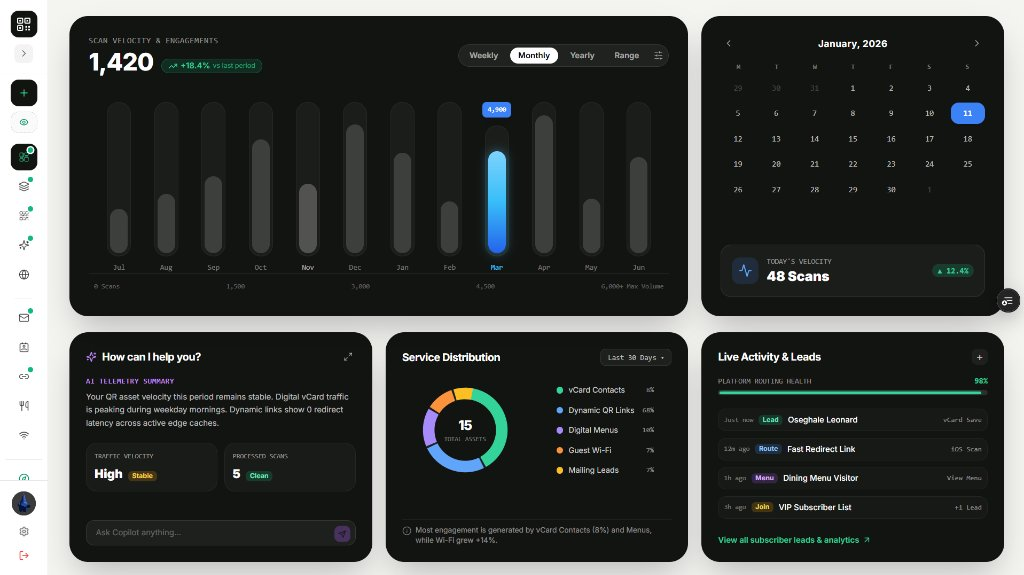
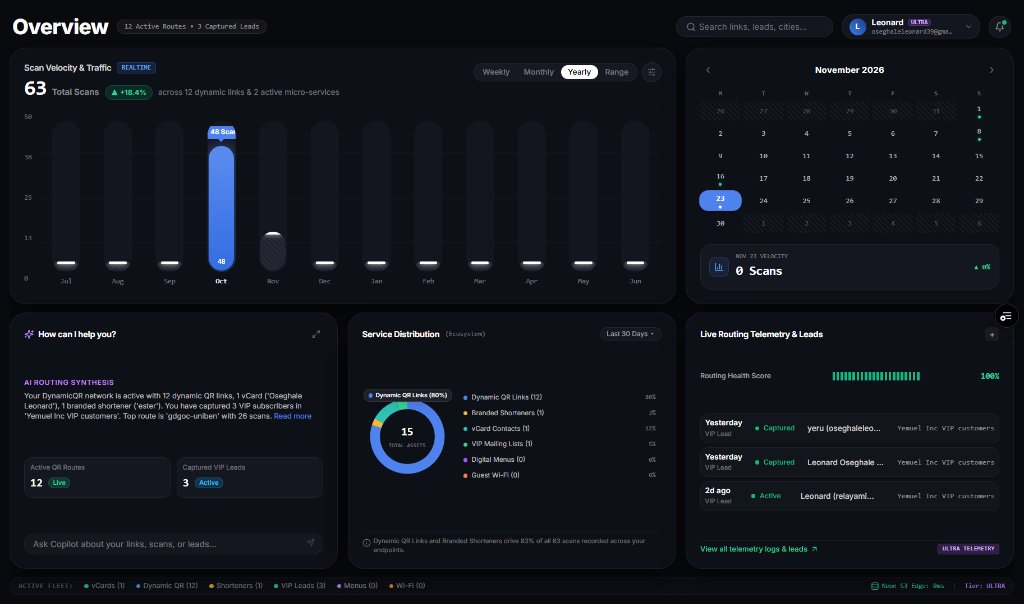
fix(ui): enlarge bottom headline with zero clipping, fix extreme left tab scroll, scale bento cards 1.5x taller, and update dashboard image to redesigned overview

diff --git a/components/AppleProductTour.tsx b/components/AppleProductTour.tsx
@@ -344,13 +344,13 @@ export default function AppleProductTour({ onOpenWorkspace }: Props) {
           </div>
 
           <h1
-            className="text-3xl sm:text-4xl md:text-[2.6rem] lg:text-[3.4rem] xl:text-[4.1rem] font-bold tracking-tight leading-[1.24] text-white flex flex-col items-center gap-2.5 sm:gap-4"
+            className="flex flex-col items-center gap-1.5 sm:gap-3 text-center"
             style={{ fontFamily: 'var(--font-display)' }}
           >
-            <span className="block whitespace-normal md:whitespace-nowrap pb-0.5">
+            <span className="block whitespace-normal md:whitespace-nowrap text-2xl sm:text-3xl md:text-[2.2rem] lg:text-[2.8rem] xl:text-[3.3rem] font-bold tracking-tight text-white/95 leading-tight">
               Consolidate All Your Micro-SaaS Apps
             </span>
-            <span className="block whitespace-normal md:whitespace-nowrap text-transparent bg-clip-text bg-gradient-to-r from-emerald-300 via-teal-200 to-emerald-400 pt-0.5">
+            <span className="inline-block whitespace-normal md:whitespace-nowrap text-3xl sm:text-5xl md:text-[3.4rem] lg:text-[4.4rem] xl:text-[5rem] font-extrabold tracking-tight text-transparent bg-clip-text bg-gradient-to-r from-emerald-300 via-teal-200 to-emerald-400 py-2 sm:py-3 px-2 leading-[1.2] overflow-visible">
               With Powerful DynamicQR
             </span>
           </h1>
@@ -859,7 +859,7 @@ export default function AppleProductTour({ onOpenWorkspace }: Props) {
 
       {/* 2. Apple-Style Perspective Showcase: Real World Industries */}
       <section id="industries" className="py-20 md:py-32 px-5 md:px-8 max-w-[1280px] mx-auto border-t border-white/10">
-        <div className="text-center max-w-3xl mx-auto space-y-4 mb-14">
+        <div className="text-center max-w-3xl mx-auto space-y-4 mb-8">
           <h2
             className="text-[2.2rem] sm:text-[3rem] font-bold tracking-tight leading-tight text-white"
             style={{ fontFamily: 'var(--font-display)' }}
@@ -869,9 +869,11 @@ export default function AppleProductTour({ onOpenWorkspace }: Props) {
           <p className="text-[15px] sm:text-[17px] text-white/60">
             Select an industry below to see how physical media stays active without reprints.
           </p>
+        </div>
 
-          {/* Industry Tab Selector: Strictly in ONE Single Line */}
-          <div className="flex flex-nowrap items-center justify-start sm:justify-center gap-2 pt-4 overflow-x-auto max-w-full pb-2 px-1">
+        {/* Industry Tab Selector: Wide container with smooth horizontal scroll and zero cut-off */}
+        <div className="w-full max-w-5xl mx-auto overflow-x-auto pb-4 pt-1 mb-10 px-4">
+          <div className="flex flex-nowrap items-center gap-2.5 w-max mx-auto px-1">
             {(Object.keys(INDUSTRIES) as IndustryTab[]).map((tabKey) => {
               const ind = INDUSTRIES[tabKey];
               const Icon = ind.icon;
@@ -879,12 +881,13 @@ export default function AppleProductTour({ onOpenWorkspace }: Props) {
               return (
                 <button
                   key={tabKey}
+                  type="button"
                   onClick={() => {
                     startTransition(() => {
                       setActiveTab(tabKey);
                     });
                   }}
-                  className={`whitespace-nowrap shrink-0 inline-flex items-center gap-2 px-3.5 sm:px-4 py-2 sm:py-2.5 rounded-xl text-[12.5px] sm:text-[13px] font-medium transition-all ${
+                  className={`whitespace-nowrap shrink-0 inline-flex items-center gap-2 px-4 py-2.5 rounded-xl text-[13px] font-medium transition-all cursor-pointer ${
                     isActive
                       ? 'bg-white text-[#11140F] font-semibold shadow-md'
                       : 'bg-white/5 border border-white/10 text-white/70 hover:bg-white/10 hover:text-white'
@@ -989,7 +992,7 @@ export default function AppleProductTour({ onOpenWorkspace }: Props) {
 
       {/* 2.5. Apple-Style Turnkey Micro-SaaS Ecosystem */}
       <section id="microsaas" className="py-20 md:py-32 px-5 md:px-8 max-w-[1280px] mx-auto border-t border-white/10">
-        <div className="text-center max-w-3xl mx-auto space-y-4 mb-14">
+        <div className="text-center max-w-3xl mx-auto space-y-4 mb-8">
           <div className="inline-flex items-center gap-2 px-3.5 py-1 rounded-full border border-emerald-500/30 bg-emerald-500/10 text-emerald-400 font-mono text-[11px] font-semibold tracking-wider uppercase shadow-[0_0_20px_rgba(52,211,153,0.15)]">
             <Sparkles className="w-3.5 h-3.5 text-emerald-400" />
             Turnkey Micro-SaaS Ecosystem
@@ -1006,9 +1009,11 @@ export default function AppleProductTour({ onOpenWorkspace }: Props) {
           <p className="text-[15px] sm:text-[17px] text-white/60">
             DynamicQR goes far beyond basic URL redirects. Every dynamic QR code can instantly launch full-fledged customer mailing lists, digital executive vCards, deep link shorteners, restaurant menus, or Wi-Fi cards — zero extra tools required.
           </p>
+        </div>
 
-          {/* Micro-SaaS Tab Selector: Strictly in ONE Single Line */}
-          <div className="flex flex-nowrap items-center justify-start sm:justify-center gap-2 pt-4 overflow-x-auto max-w-full pb-2 px-1">
+        {/* Micro-SaaS Tab Selector: Wide container with smooth horizontal scroll and zero cut-off */}
+        <div className="w-full max-w-5xl mx-auto overflow-x-auto pb-4 pt-1 mb-10 px-4">
+          <div className="flex flex-nowrap items-center gap-2.5 w-max mx-auto px-1">
             {(Object.keys(MICRO_SAAS_APPS) as MicroSaasTab[]).map((tabKey) => {
               const app = MICRO_SAAS_APPS[tabKey];
               const Icon = app.icon;
@@ -1022,7 +1027,7 @@ export default function AppleProductTour({ onOpenWorkspace }: Props) {
                       setActiveMicroSaas(tabKey);
                     });
                   }}
-                  className={`whitespace-nowrap shrink-0 inline-flex items-center gap-2 px-3.5 sm:px-4 py-2 sm:py-2.5 rounded-xl text-[12.5px] sm:text-[13px] font-medium transition-all cursor-pointer ${
+                  className={`whitespace-nowrap shrink-0 inline-flex items-center gap-2 px-4 py-2.5 rounded-xl text-[13px] font-medium transition-all cursor-pointer ${
                     isActive
                       ? 'bg-white text-[#11140F] font-semibold shadow-md'
                       : 'bg-white/5 border border-white/10 text-white/70 hover:bg-white/10 hover:text-white'
@@ -1411,115 +1416,115 @@ export default function AppleProductTour({ onOpenWorkspace }: Props) {
           </p>
         </div>
 
-        {/* Strictly 2 Rows: Row 1 = 2+1+1 (4 cols), Row 2 = 1+1+2 (4 cols) · 1.5x Height Proportions */}
-        <div className="grid grid-cols-1 sm:grid-cols-2 md:grid-cols-4 gap-3 sm:gap-4">
+        {/* Strictly 2 Rows: Row 1 = 2+1+1 (4 cols), Row 2 = 1+1+2 (4 cols) · 1.5x Taller Proportions */}
+        <div className="grid grid-cols-1 sm:grid-cols-2 md:grid-cols-4 gap-4 sm:gap-5">
           {/* Row 1 / Item 1: Wide Rectangle (2 Cols) — Sub-10ms 307 Ingress */}
-          <div className="sm:col-span-2 md:col-span-2 min-h-[165px] sm:min-h-[175px] rounded-2xl border border-white/10 bg-gradient-to-br from-white/[0.06] to-white/[0.01] p-4 sm:p-5 flex flex-col justify-between space-y-3 hover:border-white/20 transition-all">
+          <div className="sm:col-span-2 md:col-span-2 min-h-[250px] sm:min-h-[265px] rounded-2xl border border-white/10 bg-gradient-to-br from-white/[0.06] to-white/[0.01] p-5 sm:p-6 md:p-7 flex flex-col justify-between space-y-4 hover:border-white/20 transition-all shadow-xl">
             <div className="flex items-center justify-between">
-              <div className="flex items-center gap-2.5">
-                <div className="w-7 h-7 sm:w-8 sm:h-8 rounded-lg bg-emerald-500/10 border border-emerald-500/20 flex items-center justify-center text-emerald-400 shrink-0">
-                  <Zap className="w-4 h-4" />
+              <div className="flex items-center gap-3">
+                <div className="w-9 h-9 sm:w-10 sm:h-10 rounded-xl bg-emerald-500/10 border border-emerald-500/20 flex items-center justify-center text-emerald-400 shrink-0">
+                  <Zap className="w-5 h-5" />
                 </div>
                 <div>
-                  <h3 className="text-sm sm:text-base font-bold text-white tracking-tight leading-tight">
+                  <h3 className="text-base sm:text-lg font-bold text-white tracking-tight leading-tight">
                     Sub-10ms 307 Ingress
                   </h3>
-                  <span className="text-[9.5px] font-mono uppercase tracking-wider text-emerald-400">
+                  <span className="text-[10px] font-mono uppercase tracking-wider text-emerald-400">
                     Edge Architecture
                   </span>
                 </div>
               </div>
-              <span className="text-lg sm:text-xl font-bold font-mono text-emerald-400">
+              <span className="text-xl sm:text-2xl font-bold font-mono text-emerald-400">
                 &lt;10ms
               </span>
             </div>
 
-            <p className="text-[12px] sm:text-[12.5px] text-white/60 leading-relaxed line-clamp-2">
+            <p className="text-[13px] sm:text-[14px] text-white/70 leading-relaxed">
               Zero intermediary splash screens. The edge server returns a clean HTTP 307 temporary redirect directly into the browser with sub-millisecond DNS dispatch.
             </p>
 
-            <div className="rounded-xl border border-white/10 bg-black/50 px-3 py-2 font-mono text-[10px] space-y-1.5">
-              <div className="flex items-center justify-between text-white/70">
+            <div className="rounded-xl border border-white/10 bg-black/60 px-4 py-3 font-mono text-[11px] space-y-2">
+              <div className="flex items-center justify-between text-white/80">
                 <span className="flex items-center gap-1.5">
-                  <span className="w-1.5 h-1.5 rounded-full bg-emerald-400 animate-ping" />
+                  <span className="w-2 h-2 rounded-full bg-emerald-400 animate-ping" />
                   Physical Camera → Edge Ingress
                 </span>
                 <span className="text-emerald-300 font-semibold">7.2ms · 99.99% Edge Cache HIT</span>
               </div>
-              <div className="w-full bg-white/5 h-1 rounded-full overflow-hidden">
+              <div className="w-full bg-white/5 h-1.5 rounded-full overflow-hidden">
                 <div className="bg-gradient-to-r from-emerald-500 to-teal-300 h-full w-full animate-pulse" />
               </div>
             </div>
           </div>
 
           {/* Row 1 / Item 2: Compact Card (1 Col) — Native OS Branching */}
-          <div className="sm:col-span-1 md:col-span-1 min-h-[165px] sm:min-h-[175px] rounded-2xl border border-white/10 bg-gradient-to-br from-white/[0.05] to-white/[0.01] p-4 sm:p-5 flex flex-col justify-between space-y-3 hover:border-white/20 transition-all">
+          <div className="sm:col-span-1 md:col-span-1 min-h-[250px] sm:min-h-[265px] rounded-2xl border border-white/10 bg-gradient-to-br from-white/[0.05] to-white/[0.01] p-5 sm:p-6 flex flex-col justify-between space-y-4 hover:border-white/20 transition-all shadow-xl">
             <div className="flex items-center justify-between">
-              <div className="flex items-center gap-2">
-                <div className="w-7 h-7 sm:w-8 sm:h-8 rounded-lg bg-blue-500/10 border border-blue-500/20 flex items-center justify-center text-blue-400 shrink-0">
-                  <Smartphone className="w-4 h-4" />
+              <div className="flex items-center gap-2.5">
+                <div className="w-9 h-9 sm:w-10 sm:h-10 rounded-xl bg-blue-500/10 border border-blue-500/20 flex items-center justify-center text-blue-400 shrink-0">
+                  <Smartphone className="w-5 h-5" />
                 </div>
                 <div>
-                  <h3 className="text-[13px] sm:text-[14px] font-bold text-white tracking-tight leading-tight">
+                  <h3 className="text-[14px] sm:text-[15px] font-bold text-white tracking-tight leading-tight">
                     OS Branching
                   </h3>
-                  <span className="text-[9px] font-mono uppercase tracking-wider text-white/40">
+                  <span className="text-[9.5px] font-mono uppercase tracking-wider text-white/40">
                     Device Sensing
                   </span>
                 </div>
               </div>
-              <span className="text-base sm:text-lg font-bold font-mono text-white">
+              <span className="text-lg sm:text-xl font-bold font-mono text-white">
                 100%
               </span>
             </div>
 
-            <p className="text-[11.5px] sm:text-[12px] text-white/60 leading-relaxed line-clamp-2">
+            <p className="text-[12.5px] sm:text-[13px] text-white/65 leading-relaxed">
               Differentiates iOS, Android, and Desktop user-agents at the wire level.
             </p>
 
-            <div className="space-y-1 font-mono text-[10px]">
-              <div className="flex items-center justify-between px-2.5 py-1 rounded-md bg-black/40 border border-white/5 text-white/70">
+            <div className="space-y-1.5 font-mono text-[10.5px]">
+              <div className="flex items-center justify-between px-3 py-1.5 rounded-lg bg-black/50 border border-white/5 text-white/80">
                 <span>Apple iOS</span>
-                <span className="text-emerald-400">App Store</span>
+                <span className="text-emerald-400 font-semibold">App Store</span>
               </div>
-              <div className="flex items-center justify-between px-2.5 py-1 rounded-md bg-black/40 border border-white/5 text-white/70">
+              <div className="flex items-center justify-between px-3 py-1.5 rounded-lg bg-black/50 border border-white/5 text-white/80">
                 <span>Android</span>
-                <span className="text-emerald-400">Google Play</span>
+                <span className="text-emerald-400 font-semibold">Google Play</span>
               </div>
             </div>
           </div>
 
           {/* Row 1 / Item 3: Compact Card (1 Col) — 300 DPI Vector Math */}
-          <div className="sm:col-span-1 md:col-span-1 min-h-[165px] sm:min-h-[175px] rounded-2xl border border-white/10 bg-gradient-to-br from-white/[0.05] to-white/[0.01] p-4 sm:p-5 flex flex-col justify-between space-y-3 hover:border-white/20 transition-all">
+          <div className="sm:col-span-1 md:col-span-1 min-h-[250px] sm:min-h-[265px] rounded-2xl border border-white/10 bg-gradient-to-br from-white/[0.05] to-white/[0.01] p-5 sm:p-6 flex flex-col justify-between space-y-4 hover:border-white/20 transition-all shadow-xl">
             <div className="flex items-center justify-between">
-              <div className="flex items-center gap-2">
-                <div className="w-7 h-7 sm:w-8 sm:h-8 rounded-lg bg-purple-500/10 border border-purple-500/20 flex items-center justify-center text-purple-400 shrink-0">
-                  <Printer className="w-4 h-4" />
+              <div className="flex items-center gap-2.5">
+                <div className="w-9 h-9 sm:w-10 sm:h-10 rounded-xl bg-purple-500/10 border border-purple-500/20 flex items-center justify-center text-purple-400 shrink-0">
+                  <Printer className="w-5 h-5" />
                 </div>
                 <div>
-                  <h3 className="text-[13px] sm:text-[14px] font-bold text-white tracking-tight leading-tight">
+                  <h3 className="text-[14px] sm:text-[15px] font-bold text-white tracking-tight leading-tight">
                     300 DPI Vector
                   </h3>
-                  <span className="text-[9px] font-mono uppercase tracking-wider text-white/40">
+                  <span className="text-[9.5px] font-mono uppercase tracking-wider text-white/40">
                     Print Physics
                   </span>
                 </div>
               </div>
-              <span className="text-base sm:text-lg font-bold font-mono text-purple-300">
+              <span className="text-lg sm:text-xl font-bold font-mono text-purple-300">
                 Print
               </span>
             </div>
 
-            <p className="text-[11.5px] sm:text-[12px] text-white/60 leading-relaxed line-clamp-2">
+            <p className="text-[12.5px] sm:text-[13px] text-white/65 leading-relaxed">
               Sub-pixel precision SVG with mandatory 10% quiet-zone buffers.
             </p>
 
-            <div className="rounded-xl bg-black/40 border border-white/5 p-2 font-mono text-[10px] space-y-1">
-              <div className="flex items-center justify-between text-white/70">
+            <div className="rounded-xl bg-black/50 border border-white/5 p-2.5 font-mono text-[10.5px] space-y-1.5">
+              <div className="flex items-center justify-between text-white/80">
                 <span>Vector XML</span>
-                <span className="text-purple-300">Clean &lt;path&gt;</span>
+                <span className="text-purple-300 font-semibold">Clean &lt;path&gt;</span>
               </div>
-              <div className="flex items-center justify-between text-white/40 text-[9.5px]">
+              <div className="flex items-center justify-between text-white/45 text-[10px]">
                 <span>CMYK Proofing</span>
                 <span>1024×1024 PNG</span>
               </div>
@@ -1527,111 +1532,111 @@ export default function AppleProductTour({ onOpenWorkspace }: Props) {
           </div>
 
           {/* Row 2 / Item 4: Compact Card (1 Col) — Branded Custom Domain */}
-          <div className="sm:col-span-1 md:col-span-1 min-h-[165px] sm:min-h-[175px] rounded-2xl border border-white/10 bg-gradient-to-br from-white/[0.05] to-white/[0.01] p-4 sm:p-5 flex flex-col justify-between space-y-3 hover:border-white/20 transition-all">
+          <div className="sm:col-span-1 md:col-span-1 min-h-[250px] sm:min-h-[265px] rounded-2xl border border-white/10 bg-gradient-to-br from-white/[0.05] to-white/[0.01] p-5 sm:p-6 flex flex-col justify-between space-y-4 hover:border-white/20 transition-all shadow-xl">
             <div className="flex items-center justify-between">
-              <div className="flex items-center gap-2">
-                <div className="w-7 h-7 sm:w-8 sm:h-8 rounded-lg bg-teal-500/10 border border-teal-500/20 flex items-center justify-center text-teal-400 shrink-0">
-                  <Globe2 className="w-4 h-4" />
+              <div className="flex items-center gap-2.5">
+                <div className="w-9 h-9 sm:w-10 sm:h-10 rounded-xl bg-teal-500/10 border border-teal-500/20 flex items-center justify-center text-teal-400 shrink-0">
+                  <Globe2 className="w-5 h-5" />
                 </div>
                 <div>
-                  <h3 className="text-[13px] sm:text-[14px] font-bold text-white tracking-tight leading-tight">
+                  <h3 className="text-[14px] sm:text-[15px] font-bold text-white tracking-tight leading-tight">
                     Custom Domain
                   </h3>
-                  <span className="text-[9px] font-mono uppercase tracking-wider text-teal-400">
+                  <span className="text-[9.5px] font-mono uppercase tracking-wider text-teal-400">
                     Whitelabel
                   </span>
                 </div>
               </div>
-              <span className="text-base sm:text-lg font-bold font-mono text-teal-300">
+              <span className="text-lg sm:text-xl font-bold font-mono text-teal-300">
                 0% Ads
               </span>
             </div>
 
-            <p className="text-[11.5px] sm:text-[12px] text-white/60 leading-relaxed line-clamp-2">
+            <p className="text-[12.5px] sm:text-[13px] text-white/65 leading-relaxed">
               Serve dynamic links under your verified corporate SSL domain.
             </p>
 
-            <div className="rounded-xl bg-black/40 border border-white/5 px-2.5 py-1.5 flex items-center gap-1.5 font-mono text-[10px]">
-              <Lock className="w-3 h-3 text-teal-400 shrink-0" />
+            <div className="rounded-xl bg-black/50 border border-white/5 px-3 py-2 flex items-center gap-2 font-mono text-[10.5px]">
+              <Lock className="w-3.5 h-3.5 text-teal-400 shrink-0" />
               <span className="text-teal-300 font-semibold truncate">qr.brand.com</span>
-              <span className="ml-auto text-[9px] text-emerald-400 bg-emerald-500/10 px-1.5 py-0.5 rounded shrink-0">
+              <span className="ml-auto text-[9.5px] text-emerald-400 bg-emerald-500/10 px-2 py-0.5 rounded font-bold shrink-0">
                 TLS 1.3
               </span>
             </div>
           </div>
 
           {/* Row 2 / Item 5: Compact Card (1 Col) — Zero-Cookie Privacy */}
-          <div className="sm:col-span-1 md:col-span-1 min-h-[165px] sm:min-h-[175px] rounded-2xl border border-white/10 bg-gradient-to-br from-white/[0.05] to-white/[0.01] p-4 sm:p-5 flex flex-col justify-between space-y-3 hover:border-white/20 transition-all">
+          <div className="sm:col-span-1 md:col-span-1 min-h-[250px] sm:min-h-[265px] rounded-2xl border border-white/10 bg-gradient-to-br from-white/[0.05] to-white/[0.01] p-5 sm:p-6 flex flex-col justify-between space-y-4 hover:border-white/20 transition-all shadow-xl">
             <div className="flex items-center justify-between">
-              <div className="flex items-center gap-2">
-                <div className="w-7 h-7 sm:w-8 sm:h-8 rounded-lg bg-emerald-500/10 border border-emerald-500/20 flex items-center justify-center text-emerald-400 shrink-0">
-                  <ShieldCheck className="w-4 h-4" />
+              <div className="flex items-center gap-2.5">
+                <div className="w-9 h-9 sm:w-10 sm:h-10 rounded-xl bg-emerald-500/10 border border-emerald-500/20 flex items-center justify-center text-emerald-400 shrink-0">
+                  <ShieldCheck className="w-5 h-5" />
                 </div>
                 <div>
-                  <h3 className="text-[13px] sm:text-[14px] font-bold text-white tracking-tight leading-tight">
+                  <h3 className="text-[14px] sm:text-[15px] font-bold text-white tracking-tight leading-tight">
                     Zero Cookies
                   </h3>
-                  <span className="text-[9px] font-mono uppercase tracking-wider text-white/40">
+                  <span className="text-[9.5px] font-mono uppercase tracking-wider text-white/40">
                     Privacy Core
                   </span>
                 </div>
               </div>
-              <span className="text-base sm:text-lg font-bold font-mono text-emerald-400">
+              <span className="text-lg sm:text-xl font-bold font-mono text-emerald-400">
                 GDPR
               </span>
             </div>
 
-            <p className="text-[11.5px] sm:text-[12px] text-white/60 leading-relaxed line-clamp-2">
+            <p className="text-[12.5px] sm:text-[13px] text-white/65 leading-relaxed">
               Anonymized diurnal metrics with cryptographic daily rotating salts.
             </p>
 
-            <div className="rounded-xl bg-black/40 border border-white/5 p-2 font-mono text-[10px] space-y-1">
-              <div className="flex items-center justify-between text-emerald-400">
+            <div className="rounded-xl bg-black/50 border border-white/5 p-2.5 font-mono text-[10.5px] space-y-1.5">
+              <div className="flex items-center justify-between text-emerald-400 font-semibold">
                 <span>GDPR / CCPA</span>
                 <span>100% Compliant</span>
               </div>
-              <div className="text-[9.5px] text-white/40">
+              <div className="text-[10px] text-white/50">
                 0 tracking cookies stored
               </div>
             </div>
           </div>
 
           {/* Row 2 / Item 6: Wide Rectangle (2 Cols) — Time & Day-of-Week Dayparting */}
-          <div className="sm:col-span-2 md:col-span-2 min-h-[165px] sm:min-h-[175px] rounded-2xl border border-white/10 bg-gradient-to-br from-white/[0.06] to-white/[0.01] p-4 sm:p-5 flex flex-col justify-between space-y-3 hover:border-white/20 transition-all">
+          <div className="sm:col-span-2 md:col-span-2 min-h-[250px] sm:min-h-[265px] rounded-2xl border border-white/10 bg-gradient-to-br from-white/[0.06] to-white/[0.01] p-5 sm:p-6 md:p-7 flex flex-col justify-between space-y-4 hover:border-white/20 transition-all shadow-xl">
             <div className="flex items-center justify-between">
-              <div className="flex items-center gap-2.5">
-                <div className="w-7 h-7 sm:w-8 sm:h-8 rounded-lg bg-amber-500/10 border border-amber-500/20 flex items-center justify-center text-amber-400 shrink-0">
-                  <Clock className="w-4 h-4" />
+              <div className="flex items-center gap-3">
+                <div className="w-9 h-9 sm:w-10 sm:h-10 rounded-xl bg-amber-500/10 border border-amber-500/20 flex items-center justify-center text-amber-400 shrink-0">
+                  <Clock className="w-5 h-5" />
                 </div>
                 <div>
-                  <h3 className="text-sm sm:text-base font-bold text-white tracking-tight leading-tight">
+                  <h3 className="text-base sm:text-lg font-bold text-white tracking-tight leading-tight">
                     Temporal Dayparting
                   </h3>
-                  <span className="text-[9.5px] font-mono uppercase tracking-wider text-amber-400">
+                  <span className="text-[10px] font-mono uppercase tracking-wider text-amber-400">
                     Day &amp; Hour Swaps
                   </span>
                 </div>
               </div>
-              <span className="text-lg sm:text-xl font-bold font-mono text-amber-400">
+              <span className="text-xl sm:text-2xl font-bold font-mono text-amber-400">
                 24/7
               </span>
             </div>
 
-            <p className="text-[12px] sm:text-[12.5px] text-white/60 leading-relaxed line-clamp-2">
+            <p className="text-[13px] sm:text-[14px] text-white/70 leading-relaxed">
               Swap physical QR targets continuously without human intervention. Breakfast menus at dawn, happy hour in the evening, and VIP access at midnight.
             </p>
 
-            <div className="rounded-xl border border-white/10 bg-black/50 px-3 py-2 font-mono text-[10px] space-y-1.5">
-              <div className="flex items-center justify-between text-white/50 text-[9.5px]">
+            <div className="rounded-xl border border-white/10 bg-black/60 px-4 py-3 font-mono text-[11px] space-y-2">
+              <div className="flex items-center justify-between text-white/60 text-[10px]">
                 <span>08:00 BREAKFAST</span>
                 <span>12:00 LUNCH</span>
                 <span className="text-amber-300 font-bold">17:00 HAPPY HOUR</span>
                 <span>20:00 TASTING</span>
               </div>
-              <div className="grid grid-cols-4 gap-1 h-1 rounded-full overflow-hidden">
+              <div className="grid grid-cols-4 gap-1.5 h-1.5 rounded-full overflow-hidden">
                 <div className="bg-white/20 rounded-full" />
                 <div className="bg-white/20 rounded-full" />
-                <div className="bg-amber-400 rounded-full shadow-[0_0_6px_#fbbf24]" />
+                <div className="bg-amber-400 rounded-full shadow-[0_0_8px_#fbbf24]" />
                 <div className="bg-white/20 rounded-full" />
               </div>
             </div>
